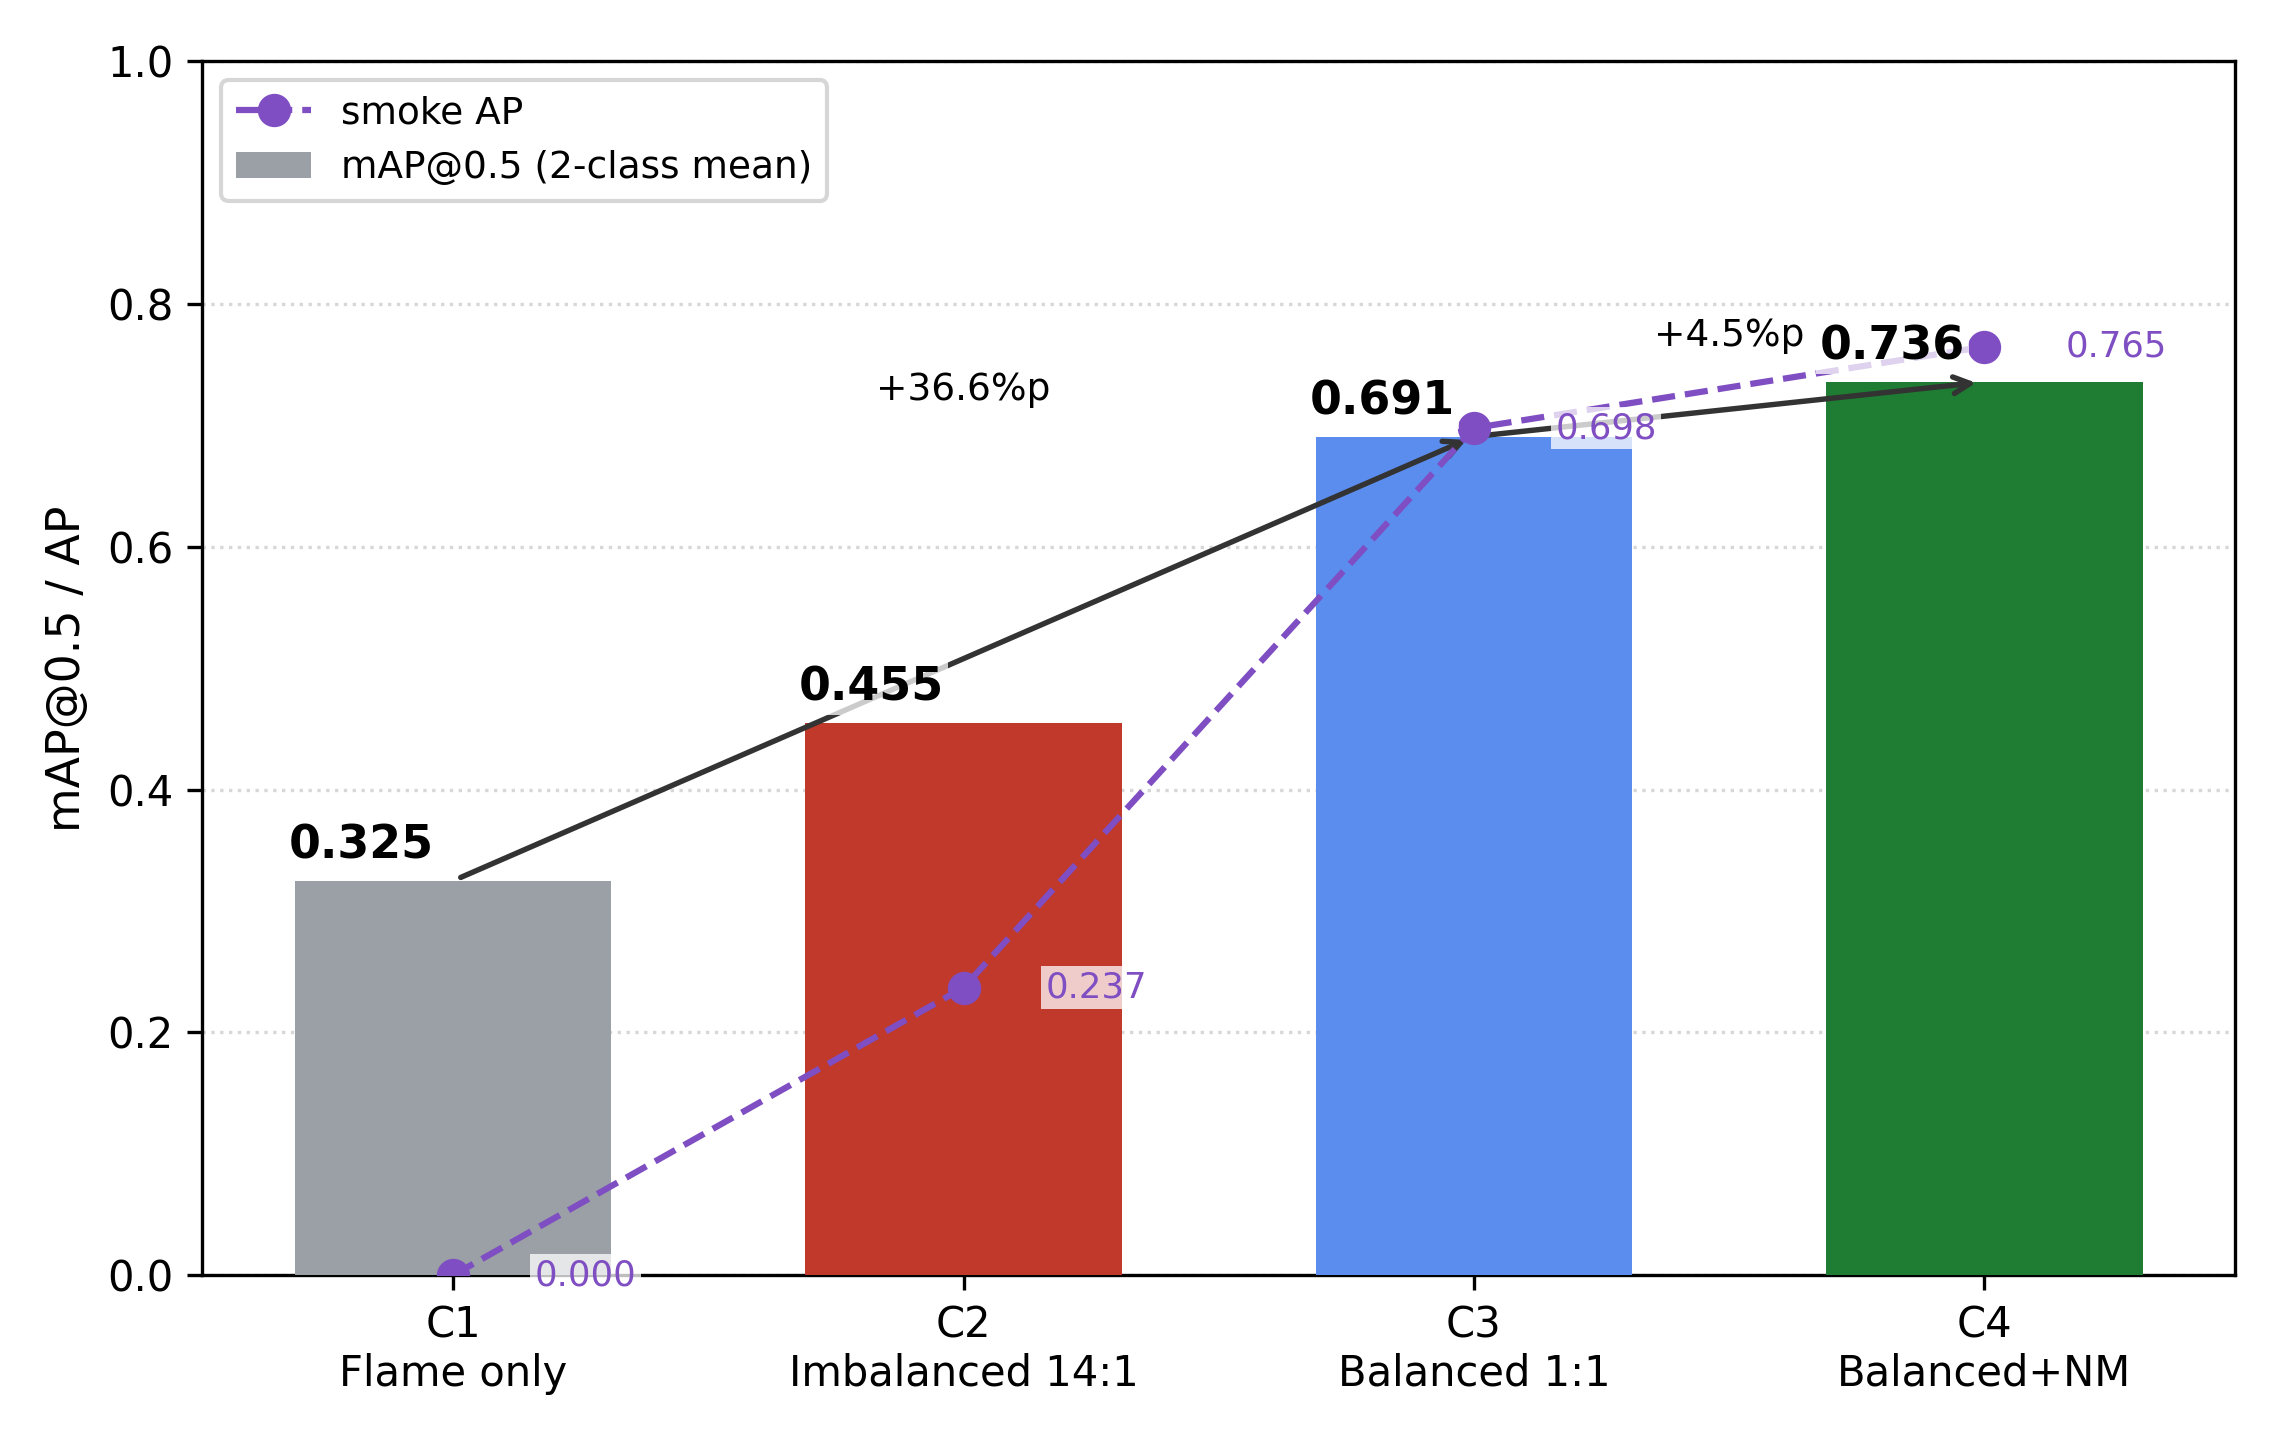
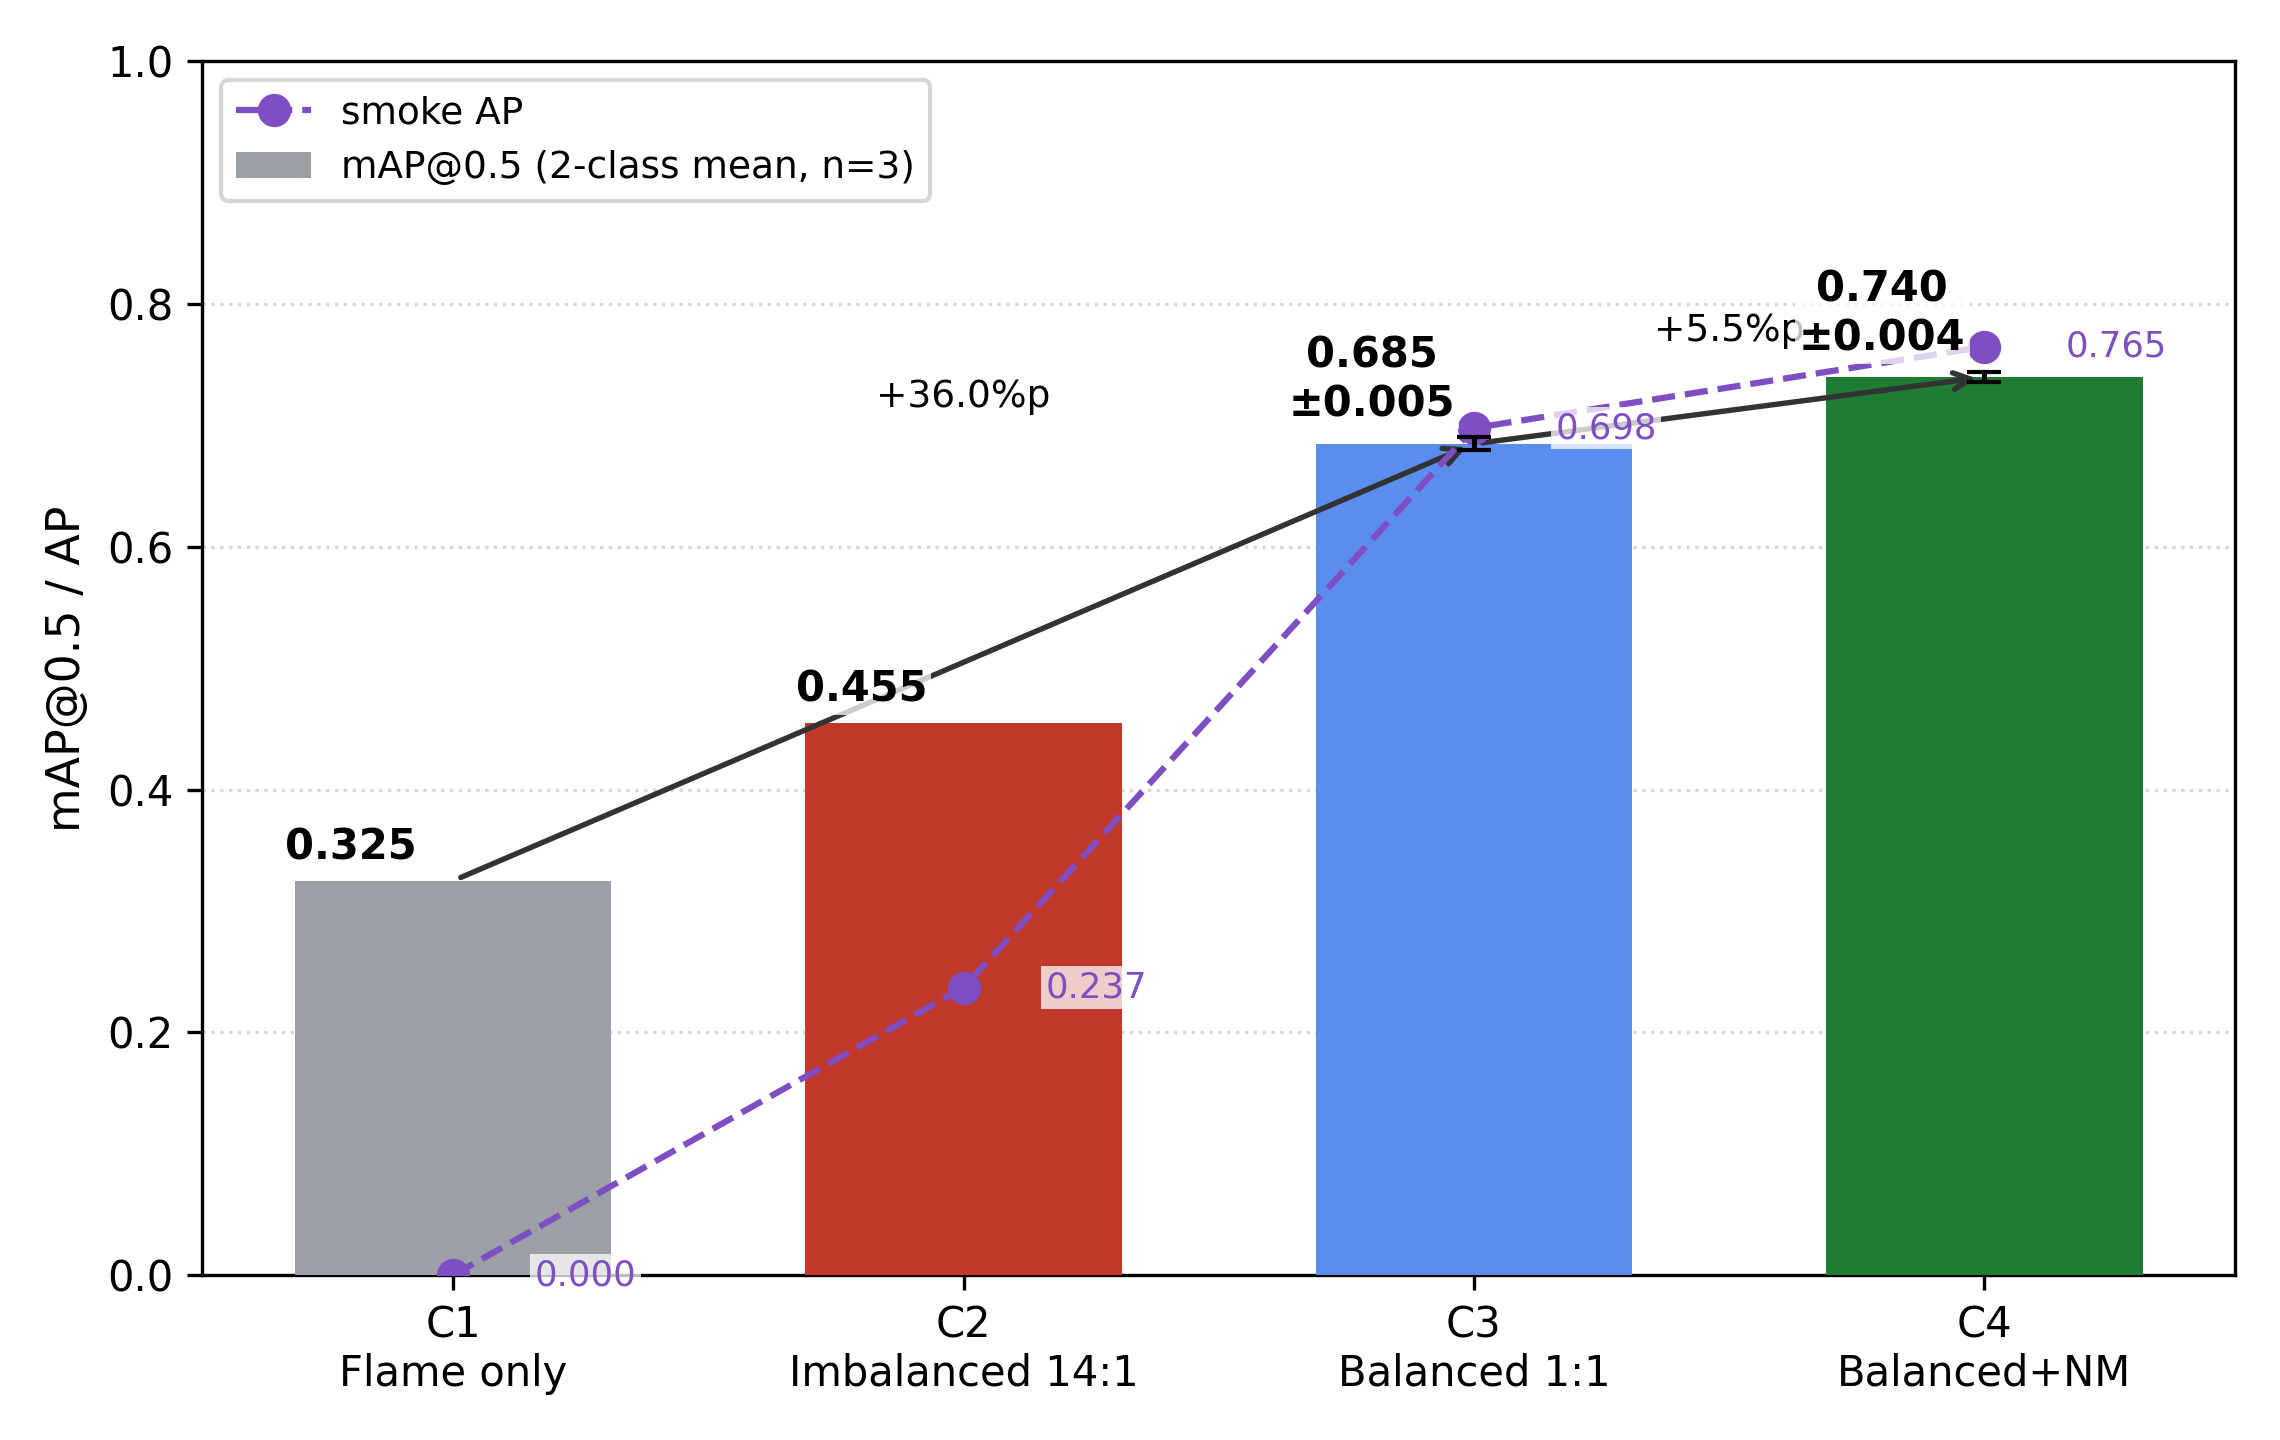
그림 1·2 멀티시드 평균±std 재생성 (오차막대 추가)
- fig_data_composition: C3 0.685±0.005, C4 0.740±0.004 (n=3 평균, 오차막대). C1/C2 단일시드 유지. 화살표 +36.0%p/+5.5%p
- fig_model: 11n 0.740±0.004, 11s 0.751±0.002 (n=3, 오차막대), +1.1%p
- plot_dfire_ablation: multiseed_stats.json 읽어 C3/C4/C4_11s 평균 반영

diff --git a/03_scripts/plot_dfire_ablation.py b/03_scripts/plot_dfire_ablation.py
@@ -21,6 +21,7 @@ plt.rcParams["axes.unicode_minus"] = False
 
 BASE = Path(__file__).resolve().parent.parent
 SUMMARY = BASE / "runs" / "4cell_summary.json"
+MSTATS = BASE / "runs" / "multiseed_stats.json"   # 멀티시드 평균±표준편차(n=3)
 OUT_DIR = BASE / "04_figures" / "dfire_4cell"
 OUT_DIR.mkdir(parents=True, exist_ok=True)
 
@@ -38,25 +39,45 @@ def load() -> dict:
     return {r["name"]: r for r in json.loads(SUMMARY.read_text(encoding="utf-8"))}
 
 
+def load_ms() -> dict:
+    """멀티시드 통계(label → {mean, std}). 없으면 빈 dict."""
+    if not MSTATS.exists():
+        return {}
+    return {r["label"]: r for r in json.loads(MSTATS.read_text(encoding="utf-8"))}
+
+
 def _rows(by_name):
     rows = [(lab, by_name[n]["test"]) for n, lab in COMP_ORDER if n in by_name]
     labels = [lab for lab, _ in rows]
     return rows, labels
 
 
-def plot_composition(by_name) -> Path:
+def plot_composition(by_name, ms) -> Path:
     rows, labels = _rows(by_name)
-    maps = [round(t["map50"], 3) for _, t in rows]
-    smoke = [round(t["smoke_ap50"], 3) for _, t in rows]
+    maps, errs, smoke = [], [], []
+    for lab, t in rows:
+        key = lab.split("\n")[0]                 # C1..C4
+        if key in ms:                            # C3/C4 → 멀티시드 평균±std
+            maps.append(round(ms[key]["mean"], 3)); errs.append(ms[key]["std"])
+        else:                                    # C1/C2 → 단일 시드(std 없음)
+            maps.append(round(t["map50"], 3));   errs.append(0.0)
+        smoke.append(round(t["smoke_ap50"], 3))
     colors = [PALETTE[l.split("\n")[0]] for l in labels]
 
     fig, ax = plt.subplots(figsize=(7.6, 4.8))
     x = list(range(len(labels)))
-    ax.bar(x, maps, color=colors, width=0.62, zorder=3, label="mAP@0.5 (2-class mean)")
+    ax.bar(x, maps, color=colors, width=0.62, zorder=3, label="mAP@0.5 (2-class mean, n=3)")
+    # 오차막대(±std) — 멀티시드 있는 셀(C3/C4)만
+    ex = [(xi, m, e) for xi, m, e in zip(x, maps, errs) if e > 0]
+    if ex:
+        ax.errorbar([a for a, _, _ in ex], [b for _, b, _ in ex],
+                    yerr=[c for _, _, c in ex], fmt="none", ecolor="black",
+                    capsize=4, elinewidth=1.2, zorder=5)
     wbox = dict(facecolor="white", alpha=0.75, edgecolor="none", pad=1.0)
-    for xi, v in zip(x, maps):
-        ax.text(xi - 0.18, v + 0.010, f"{v:.3f}", ha="center", va="bottom",
-                fontsize=11, fontweight="bold", zorder=6, bbox=wbox)
+    for xi, v, e in zip(x, maps, errs):
+        txt = f"{v:.3f}" + (f"\n±{e:.3f}" if e > 0 else "")
+        ax.text(xi - 0.20, v + e + 0.010, txt, ha="center", va="bottom",
+                fontsize=10, fontweight="bold", zorder=6, bbox=wbox)
     ax.plot(x, smoke, "o--", color="#7e4ec2", markersize=7, zorder=4, label="smoke AP")
     for xi, s in zip(x, smoke):
         ax.text(xi + 0.16, s, f"{s:.3f}", ha="left", va="center",
@@ -84,26 +105,29 @@ def plot_composition(by_name) -> Path:
     return out
 
 
-def plot_model(by_name) -> Path:
-    pairs = [("YOLO11n", "E_C4"), ("YOLO11s", "E_C4_11s")]
-    pairs = [(lab, round(by_name[n]["test"]["map50"], 3)) for lab, n in pairs if n in by_name]
-    labels = [l for l, _ in pairs]; maps = [m for _, m in pairs]
+def plot_model(ms) -> Path:
+    pairs = [("YOLO11n", "C4"), ("YOLO11s", "C4_11s")]
+    pairs = [(lab, ms[k]) for lab, k in pairs if k in ms]
+    labels = [l for l, _ in pairs]
+    maps = [round(r["mean"], 3) for _, r in pairs]
+    errs = [r["std"] for _, r in pairs]
 
     fig, ax = plt.subplots(figsize=(5.6, 4.8))
     x = list(range(len(labels)))
     ax.bar(x, maps, color=["#1e7d32", "#1565c0"], width=0.5, zorder=3)
-    for xi, v in zip(x, maps):
-        ax.text(xi, v + 0.002, f"{v:.3f}", ha="center", va="bottom",
-                fontsize=11, fontweight="bold")
+    ax.errorbar(x, maps, yerr=errs, fmt="none", ecolor="black", capsize=4,
+                elinewidth=1.2, zorder=5)
+    for xi, v, e in zip(x, maps, errs):
+        ax.text(xi, v + e + 0.0015, f"{v:.3f}\n±{e:.3f}", ha="center", va="bottom",
+                fontsize=10, fontweight="bold")
     if len(maps) == 2:
-        # 델타는 표시되는 반올림 값 기준 (0.749 - 0.736 = 0.013 → +1.3%p)
         ax.annotate("", xy=(1, maps[1]), xytext=(0, maps[0]),
                     arrowprops=dict(arrowstyle="->", color="#333", lw=1.3))
-        ax.text(0.5, max(maps) + 0.006, f"+{(maps[1] - maps[0]) * 100:.1f}%p",
+        ax.text(0.5, max(maps) + max(errs) + 0.010, f"+{(maps[1] - maps[0]) * 100:.1f}%p",
                 ha="center", fontsize=9)
     ax.set_xticks(x); ax.set_xticklabels(labels, fontsize=10)
     ax.set_ylabel("mAP@0.5", fontsize=11)
-    ax.set_ylim(min(maps) - 0.03, max(maps) + 0.02)
+    ax.set_ylim(min(maps) - max(errs) - 0.025, max(maps) + max(errs) + 0.022)
     ax.grid(axis="y", linestyle=":", alpha=0.5, zorder=0)
     fig.tight_layout()
     out = OUT_DIR / "fig_model_dfire.png"
@@ -135,9 +159,9 @@ def plot_smoke_trend(by_name) -> Path:
 def main():
     sys.stdout.reconfigure(encoding="utf-8", errors="replace")
     by = load()
-    present = [n for n, _ in COMP_ORDER if n in by]
-    print(f"[plot] 반영 셀: {present}")
-    for f in (plot_composition(by), plot_model(by), plot_smoke_trend(by)):
+    ms = load_ms()
+    print(f"[plot] 멀티시드 평균 반영: {sorted(ms)} (C3/C4/C4_11s)")
+    for f in (plot_composition(by, ms), plot_model(ms), plot_smoke_trend(by)):
         print(f"  {f}")
 
 

diff --git a/04_figures/dfire_4cell/README.md b/04_figures/dfire_4cell/README.md
@@ -13,9 +13,9 @@
 | C4_11s | YOLO11s | C4 동일 데이터, 모델만 변경 |
 
 ## 논문용 그림 (publication — 영문 전용, 제목 없음)
-- `fig_data_composition_dfire.png` — 데이터 구성 단계별 test mAP@0.5 + smoke AP 추이 (11n, C1~C4), 300dpi
-- `fig_model_dfire.png` — 모델 용량 mAP@0.5 (C4: 11n vs 11s, +1.3%p), 300dpi
-- `fig_smoke_ap_trend_dfire.png` — 구성별 test smoke AP 막대 (0.000/0.237/0.698/0.765), 300dpi
+- `fig_data_composition_dfire.png` — 데이터 구성별 test mAP@0.5 + smoke AP. **C3/C4는 멀티시드 n=3 평균±std 오차막대**(C3 0.685±0.005, C4 0.740±0.004), C1/C2는 단일시드. 화살표 +36.0%p/+5.5%p. 300dpi
+- `fig_model_dfire.png` — 모델 용량 mAP@0.5 (**n=3 평균±std**: 11n 0.740±0.004, 11s 0.751±0.002, +1.1%p), 오차막대. 300dpi
+- `fig_smoke_ap_trend_dfire.png` — 구성별 test smoke AP 막대 (단일시드 0.000/0.237/0.698/0.765 — 멀티시드 smoke AP 미집계), 300dpi
 - `C{1..4}_test_confusion_matrix_norm.png` — 셀별 정규화 혼동행렬 (test)
 - `fig_confusion_matrix_comp_dfire.png` — C1~C4 정규화 혼동행렬 **2×2 그리드** (단일 컬러바, 데이터 재계산, `make_confusion_grid.py`)
 - `C4_test_PR_curve.png` — C4 PR 곡선 (fire/smoke 클래스별)